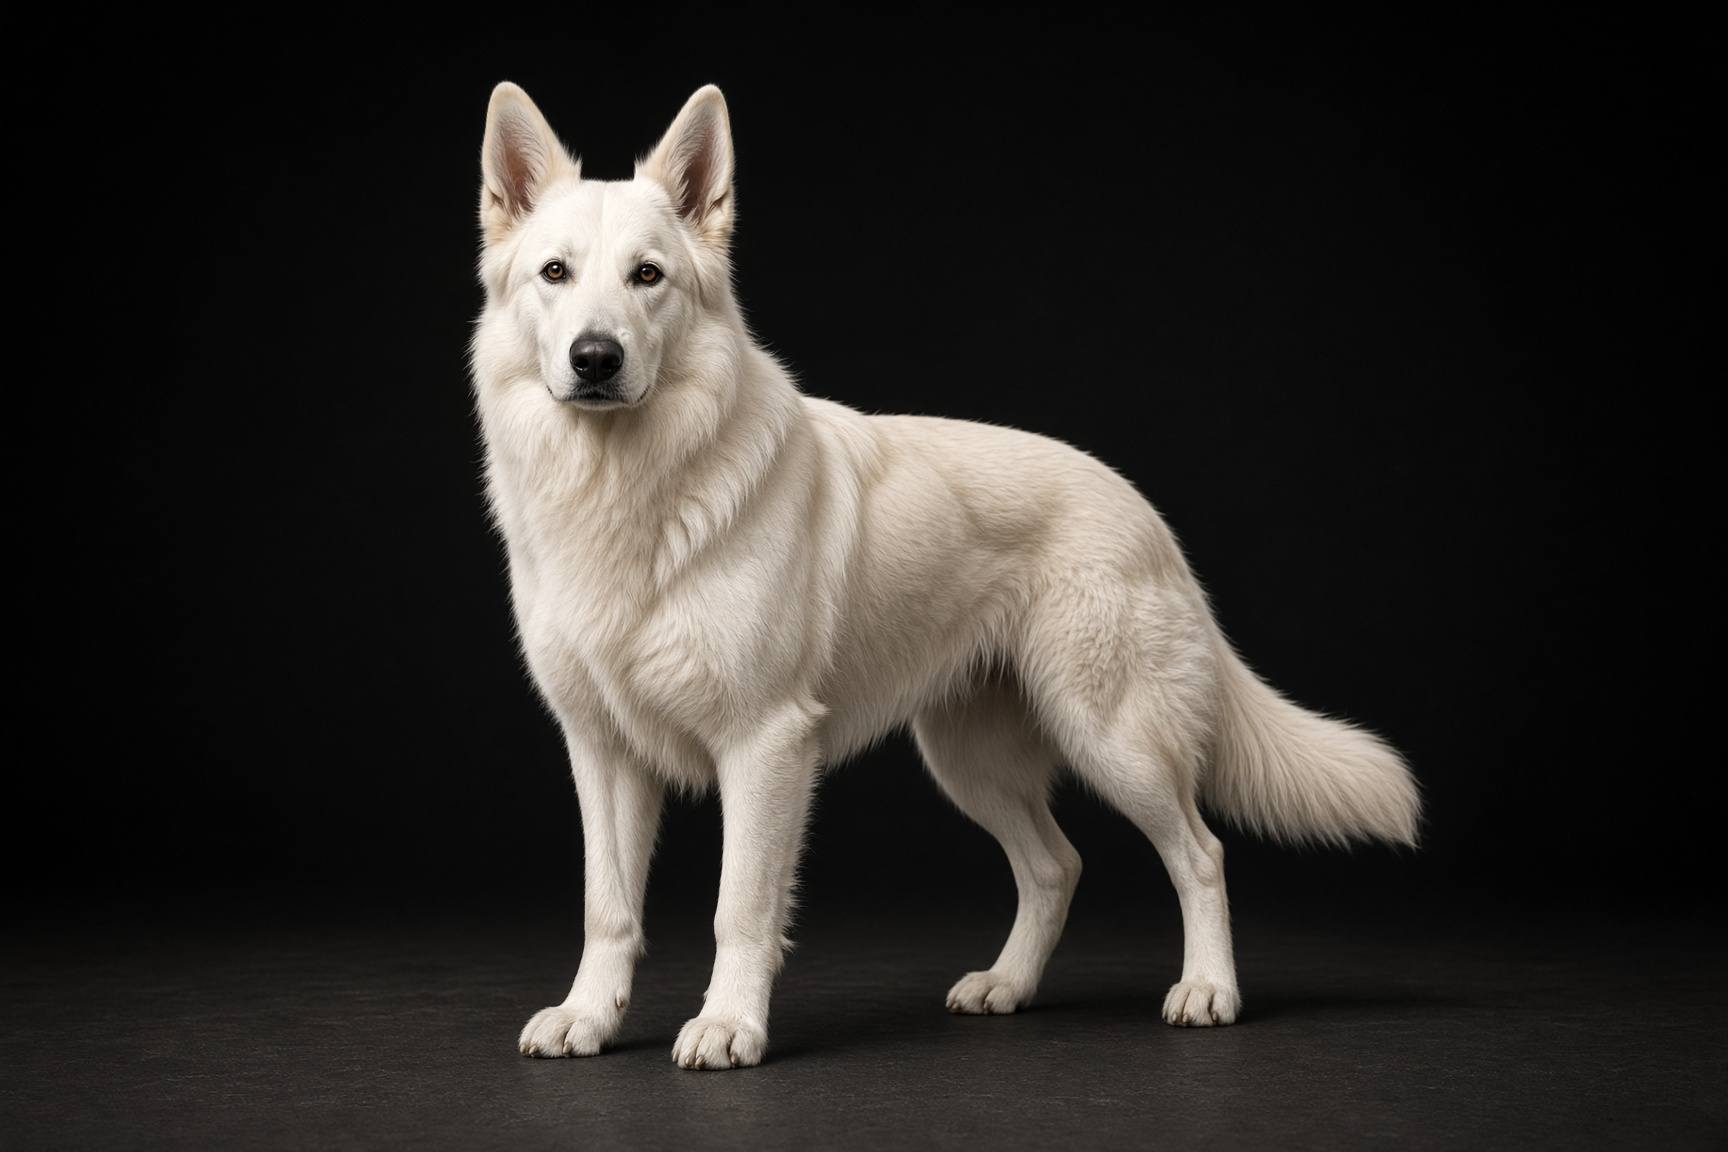
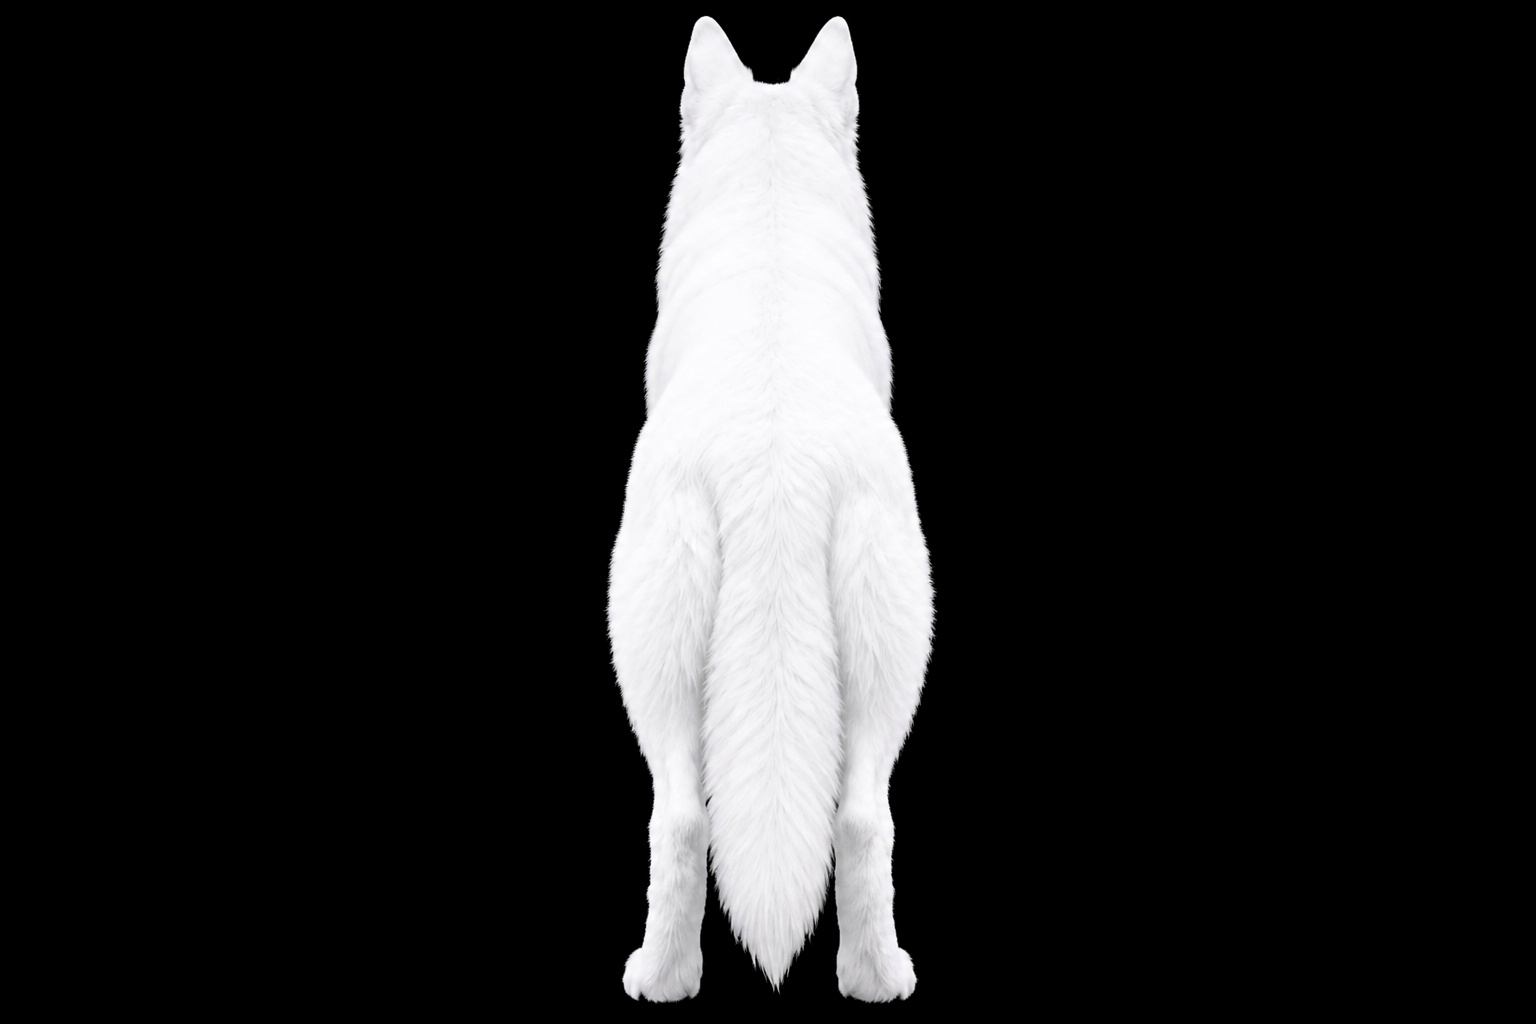
Seal rear Bolt identity as /refs/bolt-body.jpg.
Point BOLT_BODY, boltKit, packStill, and mintStill at the rear full-body
still. Keep bolt-face tainted and out of Imagine kits so face-front refs
cannot turn walk cooks. Prefer body-only over the tiny bolt-white chip.

diff --git a/src/game/rune.ts b/src/game/rune.ts
@@ -393,34 +393,40 @@ export const STAND_LOCK =
 export const AAA_LOCK =
   "LOOK: Unreal 5 AAA, Nanite, Lumen, photoreal PBR. Not 2D, cartoon, anime, illustration. Skin AAA. Camera stays the wide locked hall.";
 
-/** Snow-white 3/4 face on black. Never a Forge tray chip. Never an Imagine @ref. */
+/** Face-front crop. Never a Forge tray chip. Never an Imagine @ref — face stills turn walk cooks. */
 export const BOLT_FACE = "/refs/bolt-face.jpg";
-/** Sealed Imagine identity still: rear/stand, snow-white coat on black. */
-export const BOLT_BODY = "/refs/bolt-white.jpg";
+/** Sealed Imagine identity still: rear full-body, snow-white coat on black. Scale lock. */
+export const BOLT_BODY = "/refs/bolt-body.jpg";
 
-const TAINTED_BOLT = new Set(["/refs/bolt-face.jpg", "/refs/bolt-body.jpg", "/refs/bolt.jpg"]);
+const TAINTED_BOLT = new Set(["/refs/bolt-face.jpg", "/refs/bolt.jpg"]);
 const TAINTED_BOLT_FILE = new Set([
   "bolt-face.jpg",
   "bolt-face.jpeg",
   "bolt-face.png",
   "bolt-face.webp",
-  "bolt-body.jpg",
-  "bolt-body.jpeg",
-  "bolt-body.png",
-  "bolt-body.webp",
   "bolt.jpg",
   "bolt.jpeg",
   "bolt.png",
   "bolt.webp",
 ]);
+const OTHER_BOLT_STILL = /^(bolt)(-white|-face|-body)?\.(jpg|jpeg|png|webp)$/i;
 
-/** Roux / cream / old body crops — never send to Imagine, even if the file was replaced. */
+/** Roux / cream / face-front crops — never send to Imagine, even if the file was replaced. */
 export function isTaintedBolt(u?: string | null): boolean {
   if (!u) return false;
   const path = (u.split("?")[0] || u).toLowerCase();
   if (TAINTED_BOLT.has(path)) return true;
   const base = path.split("/").pop() || path;
   return TAINTED_BOLT_FILE.has(base);
+}
+
+/** Extra bolt stills (tiny white chip, face, old crops). Identity kit is rear body only. */
+export function isOtherBoltStill(u?: string | null): boolean {
+  if (!u) return false;
+  const path = (u.split("?")[0] || u).toLowerCase();
+  if (path === BOLT_BODY) return false;
+  const base = path.split("/").pop() || path;
+  return OTHER_BOLT_STILL.test(base);
 }
 
 export function dropTaintedBolt(urls: (string | null | undefined)[] = []): string[] {
@@ -433,20 +439,20 @@ export function isForgeFaceChip(id?: string | null, name?: string | null): boole
   return a === "bolt-face" || a === "face" || b === "bolt-face" || b === "face";
 }
 
-/** Forge tray identity chips: body only — never the face crop. */
+/** Forge tray identity chips: rear body only — never the face crop. */
 export function forgeTrayRefs<T extends { id: string; name?: string; src?: string }>(refs: T[]): T[] {
-  return refs.filter((r) => !isForgeFaceChip(r.id, r.name) && !isTaintedBolt(r.src));
+  return refs.filter((r) => !isForgeFaceChip(r.id, r.name) && !isTaintedBolt(r.src) && !isOtherBoltStill(r.src));
 }
 
 export const BOLT_ID =
   "ONE dog: StarBoltSprint. White Swiss Shepherd only — never a classic German Shepherd. FULL snow-white coat ONLY — zero tan, ginger, saddle, mask. TEXT COAT WINS over any tinted ref. No wolf, no fox, no second dog.";
 
-/** Identity still only. Drop face / cream / old body crops so @ref cannot override the coat. */
+/** Rear body identity only. Drop face / tiny white chip / old crops so @ref cannot turn Bolt. */
 export function boltKit(extra: (string | null | undefined)[] = []) {
   const out: string[] = [];
   const seen = new Set<string>();
   for (const u of [BOLT_BODY, ...dropTaintedBolt(extra)]) {
-    if (!u || seen.has(u) || isTaintedBolt(u)) continue;
+    if (!u || seen.has(u) || isTaintedBolt(u) || isOtherBoltStill(u)) continue;
     seen.add(u);
     out.push(u);
   }

diff --git a/src/game/rune.test.ts b/src/game/rune.test.ts
@@ -35,6 +35,7 @@ import {
   boltKit,
   dropTaintedBolt,
   forgeTrayRefs,
+  isOtherBoltStill,
   isTaintedBolt,
   breathPrompt,
   faceRow,
@@ -161,29 +162,39 @@ describe("Imagine prompt rails", () => {
     assert.match(genePrompt({ cam: 1, strides: 8, morph: 1, dest: 1 }), /Swiss Shepherd/);
   });
 
-  it("uses the snow-white rear still and drops cream profile refs", () => {
-    assert.equal(BOLT_BODY, "/refs/bolt-white.jpg");
+  it("uses the snow-white rear body still and drops face / tiny white chips", () => {
+    assert.equal(BOLT_BODY, "/refs/bolt-body.jpg");
     assert.equal(BOLT_FACE, "/refs/bolt-face.jpg");
-    const kit = boltKit([BOLT_FACE, "/refs/bolt-body.jpg", "/refs/bolt.jpg", "/films/citadel-tour.jpg", "/refs/bolt-face.jpg?v=roux"]);
-    assert.deepEqual(kit, ["/refs/bolt-white.jpg", "/films/citadel-tour.jpg"]);
+    const kit = boltKit([BOLT_FACE, "/refs/bolt-white.jpg", "/refs/bolt.jpg", "/films/citadel-tour.jpg", "/refs/bolt-face.jpg?v=roux"]);
+    assert.deepEqual(kit, ["/refs/bolt-body.jpg", "/films/citadel-tour.jpg"]);
     assert.ok(!kit.includes(BOLT_FACE));
-    assert.ok(!kit.includes("/refs/bolt-body.jpg"));
+    assert.ok(!kit.includes("/refs/bolt-white.jpg"));
+    assert.ok(!kit.includes("/refs/bolt.jpg"));
     assert.equal(isTaintedBolt(BOLT_FACE), true);
     assert.equal(isTaintedBolt("/refs/bolt-face.jpg?v=2"), true);
     assert.equal(isTaintedBolt("/cdn/bolt-face.jpg"), true);
-    assert.equal(isTaintedBolt("/refs/bolt-body.jpg"), true);
+    assert.equal(isTaintedBolt("/refs/bolt-body.jpg"), false);
     assert.equal(isTaintedBolt("/refs/bolt.jpg"), true);
     assert.equal(isTaintedBolt(BOLT_BODY), false);
     assert.equal(isTaintedBolt("/films/citadel-tour.jpg"), false);
+    assert.equal(isOtherBoltStill("/refs/bolt-white.jpg"), true);
+    assert.equal(isOtherBoltStill(BOLT_FACE), true);
+    assert.equal(isOtherBoltStill(BOLT_BODY), false);
     assert.deepEqual(dropTaintedBolt([BOLT_FACE, BOLT_BODY, "/refs/bolt.jpg"]), [BOLT_BODY]);
     assert.deepEqual(
       forgeTrayRefs([
         { id: "bolt-face", name: "face", src: BOLT_FACE },
+        { id: "bolt-white", name: "white", src: "/refs/bolt-white.jpg" },
         { id: "bolt", name: "bolt", src: BOLT_BODY },
         { id: "hall", name: "hall", src: "/films/citadel-tour.jpg" },
       ]).map((r) => r.id),
       ["bolt", "hall"],
     );
+    const bodyPath = join(dirname(fileURLToPath(import.meta.url)), "../../public/refs/bolt-body.jpg");
+    const bytes = readFileSync(bodyPath);
+    assert.ok(bytes.length > 20000, "sealed bolt-body.jpg missing or tiny");
+    assert.equal(bytes[0], 0xff);
+    assert.equal(bytes[1], 0xd8);
   });
 
   it("keeps still / walk grammar on the locked whole hall, not a side crop", () => {
@@ -592,6 +603,8 @@ describe("Imagine still / film payloads", () => {
     const mintAt = engine.indexOf("async function mintStill");
     const mintFn = engine.slice(mintAt, engine.indexOf("async function cookSeed", mintAt));
     assert.match(mintFn, /dropTaintedBolt\(extra\)/);
+    assert.match(mintFn, /label === "bolt-face"/);
+    assert.match(mintFn, /packStill\(label\)/);
     assert.match(cook, /dropTaintedBolt\(data\.refs/);
     assert.match(engine, /refs: boltKit\(/);
   });

diff --git a/src/game/play-frame.test.ts b/src/game/play-frame.test.ts
@@ -53,10 +53,13 @@ describe("play frame after cook", () => {
   });
 
   it("packIdentityStill never packs place-bolt / seed onto the isolated Bolt still", () => {
+    assert.equal(BOLT_BODY, "/refs/bolt-body.jpg");
     assert.equal(packIdentityStill("bolt"), BOLT_BODY);
     assert.equal(packIdentityStill("bolt-body"), BOLT_BODY);
     assert.equal(packIdentityStill("bolt-face"), BOLT_BODY);
     assert.equal(packIdentityStill("face"), BOLT_BODY);
+    assert.notEqual(packIdentityStill("bolt-face"), BOLT_FACE);
+    assert.notEqual(packIdentityStill("face"), BOLT_FACE);
     assert.equal(packIdentityStill("hall"), TOUR_PLATE);
     assert.equal(packIdentityStill("doors"), TOUR_PLATE);
     assert.equal(packIdentityStill("place-bolt"), null);

diff --git a/src/game/play-frame.ts b/src/game/play-frame.ts
@@ -37,7 +37,7 @@ export function isHallPlayStill(u?: string | null): boolean {
   return s.startsWith("/films/") || s.startsWith("http") || s.startsWith("blob:");
 }
 
-/** Sealed pack identity labels only. `place-bolt` / seed / pose must not pack to BOLT_BODY. */
+/** Sealed pack identity labels only. Face labels pack to the rear body — never bolt-face.jpg. */
 export function packIdentityStill(label: string): string | null {
   const n = label.toLowerCase().trim();
   if (n === "bolt" || n === "bolt-body" || n === "bolt-face" || n === "face") return BOLT_BODY;

diff --git a/src/components/rune-engine.tsx b/src/components/rune-engine.tsx
@@ -3961,7 +3961,7 @@ export function RuneEngine({ onBack, boot }: { onBack: () => void; boot?: Citade
 
   async function mintStill(label: string, prompt: string, ratio: "9:16" | "1:1", extra?: string[], edit = false, editOnly = false) {
     const wish = worldHold.current.trim();
-    if (label === "bolt" || label === "bolt-face" || label === "bolt-body") {
+    if (label === "bolt" || label === "bolt-face" || label === "bolt-body" || label === "face") {
       const packed = packStill(label);
       if (packed) {
         setLoadPct(100);
